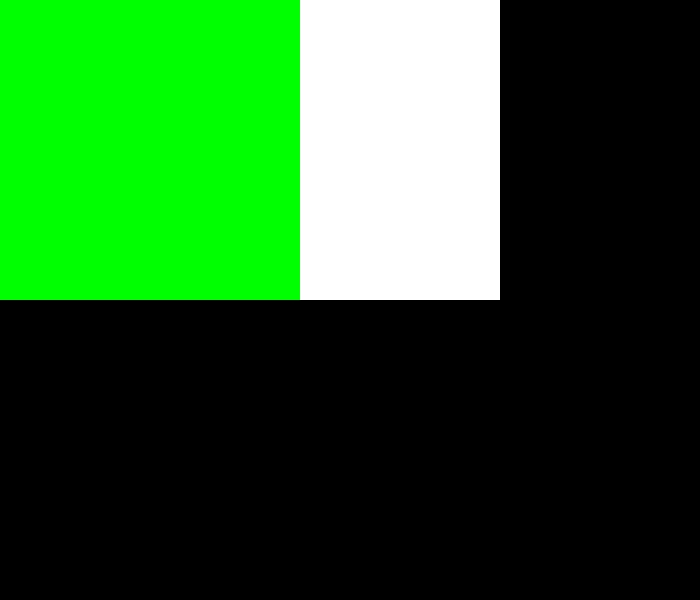
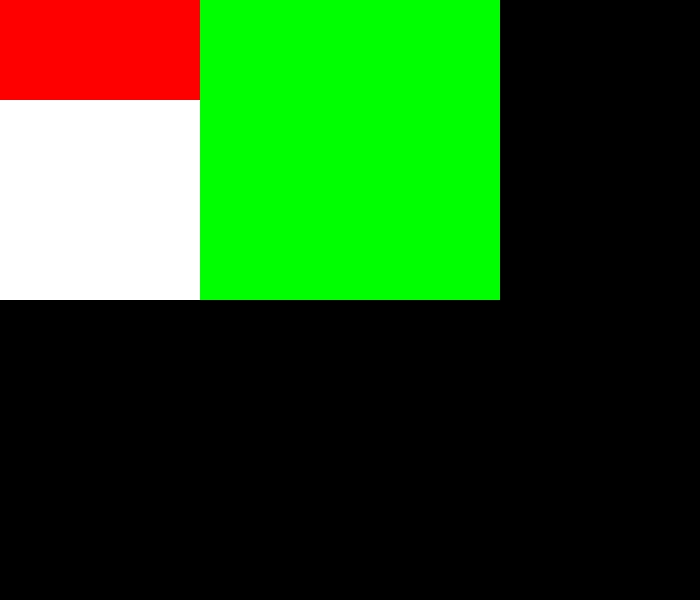
images 渲染 bug解决，作业完成

Changed region(s): [[0.42, 0.0, 0.72, 0.51], [0.0, 0.0, 0.3, 0.51]]

diff --git a/week07/render/layout.js b/week07/render/layout.js
@@ -249,7 +249,7 @@ function layout(element) {
 						itemStyle[mainSize] = (mainSpace / flexTotal) * itemStyle.flex;
 					}
 					itemStyle[mainStart] = currentMain;
-					itemStyle[mainEnd] = itemStyle[mainStart] + mainStart * itemStyle[mainSize];
+					itemStyle[mainEnd] = itemStyle[mainStart] + mainSign * itemStyle[mainSize];
 					currentMain = itemStyle[mainEnd];
 				}
 			} else {
@@ -276,7 +276,7 @@ function layout(element) {
 				for (let i = 0; i < items.length; i++) {
 					let item = items[i];
 					itemStyle[mainStart] = currentMain;
-					itemStyle[mainEnd] = itemStyle[mainStart] + mainStart * itemStyle[mainSize];
+					itemStyle[mainEnd] = itemStyle[mainStart] + mainSign * itemStyle[mainSize];
 					currentMain = itemStyle[mainEnd] + step;
 				}
 			}
@@ -370,7 +370,7 @@ function layout(element) {
 		crossBase += crossSign * (lineCrossSize + step);
 	});
 
-	// console.log(items);
+	console.log(items);
 }
 
 module.exports = layout;

diff --git a/week07/server.js b/week07/server.js
@@ -6,7 +6,7 @@ const server = http.createServer((req, res) => {
 	console.log(req.headers);
 	res.setHeader('Content-Type', 'text/html');
 	res.setHeader('X-Foo', 'bar');
-	res.writeHead(200, { 'Content-Type': 'text/plain' });
+	res.writeHead(200, { 'Content-Type': 'text/html' });
 	res.end(
 `<html>
 	<head>

diff --git a/week07/render/client.js b/week07/render/client.js
@@ -229,7 +229,7 @@ void async function () {
 
 	let viewport = images(700, 600);
 
-	// render(viewport, dom.children[0].children[3].children[1].children[1]);
+	// render(viewport, dom.children[0].children[3].children[1].children[2]);
 	render(viewport, dom);
 	viewport.save("viewport.jpg");
 }();

diff --git a/week07/NOTE.md b/week07/NOTE.md
@@ -5,5 +5,13 @@
 - 计算主轴
 - 计算交叉轴
 
+## CSS总体结构
+- @charset
+- @import
+- rules
+  - @media
+  - @page
+  - rule
+
 ## 哎~~
 有点难，还需要再找时间复盘这一篇幅的内容，才能掌握。
